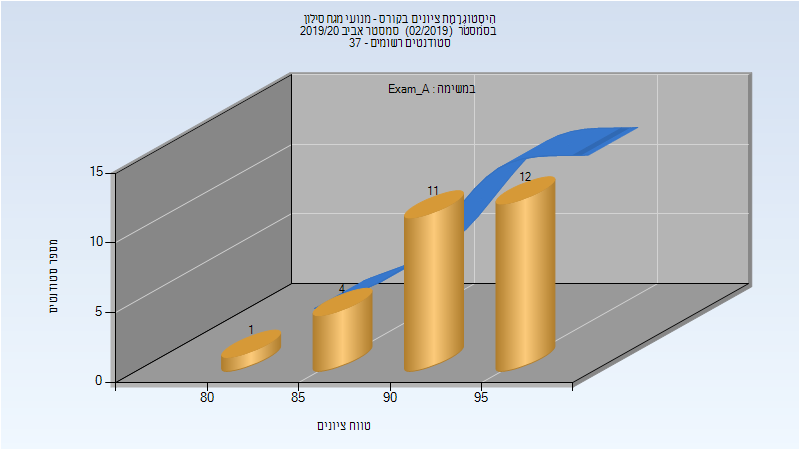
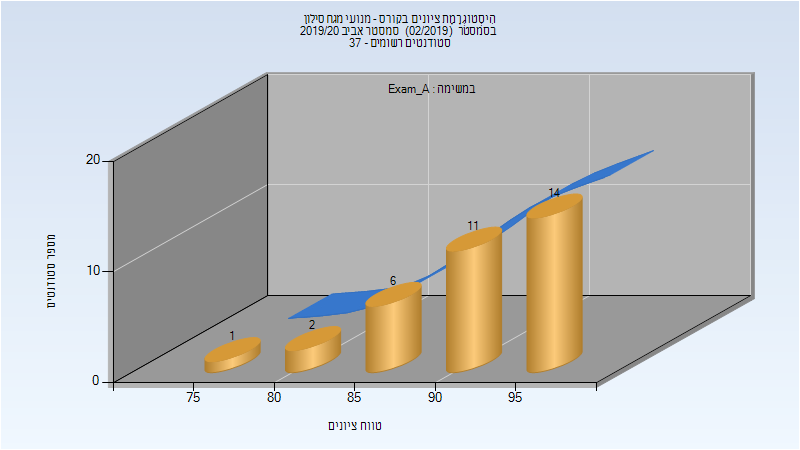
Deploy michael-maltsev/technion-histograms to github.com/michael-maltsev/technion-histograms.git:gh-pages

diff --git a/125801/index.html b/125801/index.html
@@ -412,6 +412,52 @@
 </tbody>
 </table>
 <h2>אביב 2016</h2>
+<table>
+<thead>
+<tr>
+<th>איש סגל</th>
+<th>תפקיד</th>
+</tr>
+</thead>
+<tbody>
+<tr>
+<td>אייזן מוריס</td>
+<td>מרצה - אחראי מקצוע</td>
+</tr>
+<tr>
+<td>לוי מורן</td>
+<td>מתרגל</td>
+</tr>
+<tr>
+<td>גרציקוב יוליה</td>
+<td>מתרגל</td>
+</tr>
+<tr>
+<td>וינשטיין זבר ליבי</td>
+<td>מתרגל</td>
+</tr>
+<tr>
+<td>שפירא רעות</td>
+<td>מתרגל</td>
+</tr>
+<tr>
+<td>דנטוס מאוריסיו</td>
+<td>מתרגל</td>
+</tr>
+<tr>
+<td>סיביליה שגיא</td>
+<td>מתרגל</td>
+</tr>
+<tr>
+<td>שטנגר אמנון</td>
+<td>מרצה</td>
+</tr>
+<tr>
+<td>בריל אדם</td>
+<td>מתרגל</td>
+</tr>
+</tbody>
+</table>
 <h3>מבחן מועד א'</h3>
 <p><img src="201502/Exam_A.png" alt="201502 Exam_A" /></p>
 <table>

diff --git a/086201/index.html b/086201/index.html
@@ -64,5 +64,31 @@
 </tr>
 </tbody>
 </table>
+<h3>סופי</h3>
+<p><img src="201902/Finals.png" alt="201902 Finals" /></p>
+<table>
+<thead>
+<tr>
+<th>סטודנטים</th>
+<th>עברו/נכשלו</th>
+<th>אחוז עוברים</th>
+<th>ציון מינימלי</th>
+<th>ציון מקסימלי</th>
+<th>ממוצע</th>
+<th>חציון</th>
+</tr>
+</thead>
+<tbody>
+<tr>
+<td>43</td>
+<td>42/1</td>
+<td>98</td>
+<td>49</td>
+<td>97</td>
+<td>83.953</td>
+<td>86</td>
+</tr>
+</tbody>
+</table>
   </body>
 </html>

diff --git a/086414/index.html b/086414/index.html
@@ -54,13 +54,13 @@
 </thead>
 <tbody>
 <tr>
-<td>28</td>
-<td>28/0</td>
+<td>34</td>
+<td>34/0</td>
 <td>100</td>
-<td>83</td>
+<td>78</td>
 <td>99</td>
-<td>92.786</td>
-<td>93</td>
+<td>91.824</td>
+<td>92.5</td>
 </tr>
 </tbody>
 </table>
@@ -80,12 +80,12 @@
 </thead>
 <tbody>
 <tr>
-<td>28</td>
-<td>28/0</td>
+<td>34</td>
+<td>34/0</td>
 <td>100</td>
-<td>85</td>
+<td>77</td>
 <td>99</td>
-<td>93.036</td>
+<td>92.088</td>
 <td>93</td>
 </tr>
 </tbody>

diff --git a/054133/index.html b/054133/index.html
@@ -20,6 +20,20 @@
   <body>
     <h1>054133 - מבט על הנדסה כימית וביוכימית</h1>
 <h2>חורף 2015-2016</h2>
+<table>
+<thead>
+<tr>
+<th>איש סגל</th>
+<th>תפקיד</th>
+</tr>
+</thead>
+<tbody>
+<tr>
+<td>ביאנקו-פלד חבצלת</td>
+<td>מרצה - אחראי מקצוע</td>
+</tr>
+</tbody>
+</table>
 <h3>סופי מועד א'</h3>
 <p><img src="201501/Final_A.png" alt="201501 Final_A" /></p>
 <table>

diff --git a/086414/README.md b/086414/README.md
@@ -13,7 +13,7 @@
 
 | סטודנטים | עברו/נכשלו | אחוז עוברים | ציון מינימלי | ציון מקסימלי | ממוצע | חציון |
 | ---- | ---- | ---- | ---- | ---- | ---- | ---- |
-| 28 | 28/0 | 100 | 83 | 99 | 92.786 | 93 |
+| 34 | 34/0 | 100 | 78 | 99 | 91.824 | 92.5 |
 
 ### סופי מועד א'
 
@@ -21,5 +21,5 @@
 
 | סטודנטים | עברו/נכשלו | אחוז עוברים | ציון מינימלי | ציון מקסימלי | ממוצע | חציון |
 | ---- | ---- | ---- | ---- | ---- | ---- | ---- |
-| 28 | 28/0 | 100 | 85 | 99 | 93.036 | 93 |
+| 34 | 34/0 | 100 | 77 | 99 | 92.088 | 93 |
 

diff --git a/125801/README.md b/125801/README.md
@@ -126,6 +126,18 @@
 
 ## אביב 2016
 
+| איש סגל | תפקיד |
+| ---- | ---- |
+| אייזן מוריס | מרצה - אחראי מקצוע |
+| לוי מורן | מתרגל |
+| גרציקוב יוליה | מתרגל |
+| וינשטיין זבר ליבי | מתרגל |
+| שפירא רעות | מתרגל |
+| דנטוס מאוריסיו | מתרגל |
+| סיביליה שגיא | מתרגל |
+| שטנגר אמנון | מרצה |
+| בריל אדם | מתרגל |
+
 ### מבחן מועד א'
 
 ![201502 Exam_A](201502/Exam_A.png)

diff --git a/086201/README.md b/086201/README.md
@@ -15,3 +15,11 @@
 | ---- | ---- | ---- | ---- | ---- | ---- | ---- |
 | 43 | 42/1 | 98 | 49 | 97 | 83.953 | 86 |
 
+### סופי
+
+![201902 Finals](201902/Finals.png)
+
+| סטודנטים | עברו/נכשלו | אחוז עוברים | ציון מינימלי | ציון מקסימלי | ממוצע | חציון |
+| ---- | ---- | ---- | ---- | ---- | ---- | ---- |
+| 43 | 42/1 | 98 | 49 | 97 | 83.953 | 86 |
+

diff --git a/054133/README.md b/054133/README.md
@@ -2,6 +2,10 @@
 
 ## חורף 2015-2016
 
+| איש סגל | תפקיד |
+| ---- | ---- |
+| ביאנקו-פלד חבצלת | מרצה - אחראי מקצוע |
+
 ### סופי מועד א'
 
 ![201501 Final_A](201501/Final_A.png)
